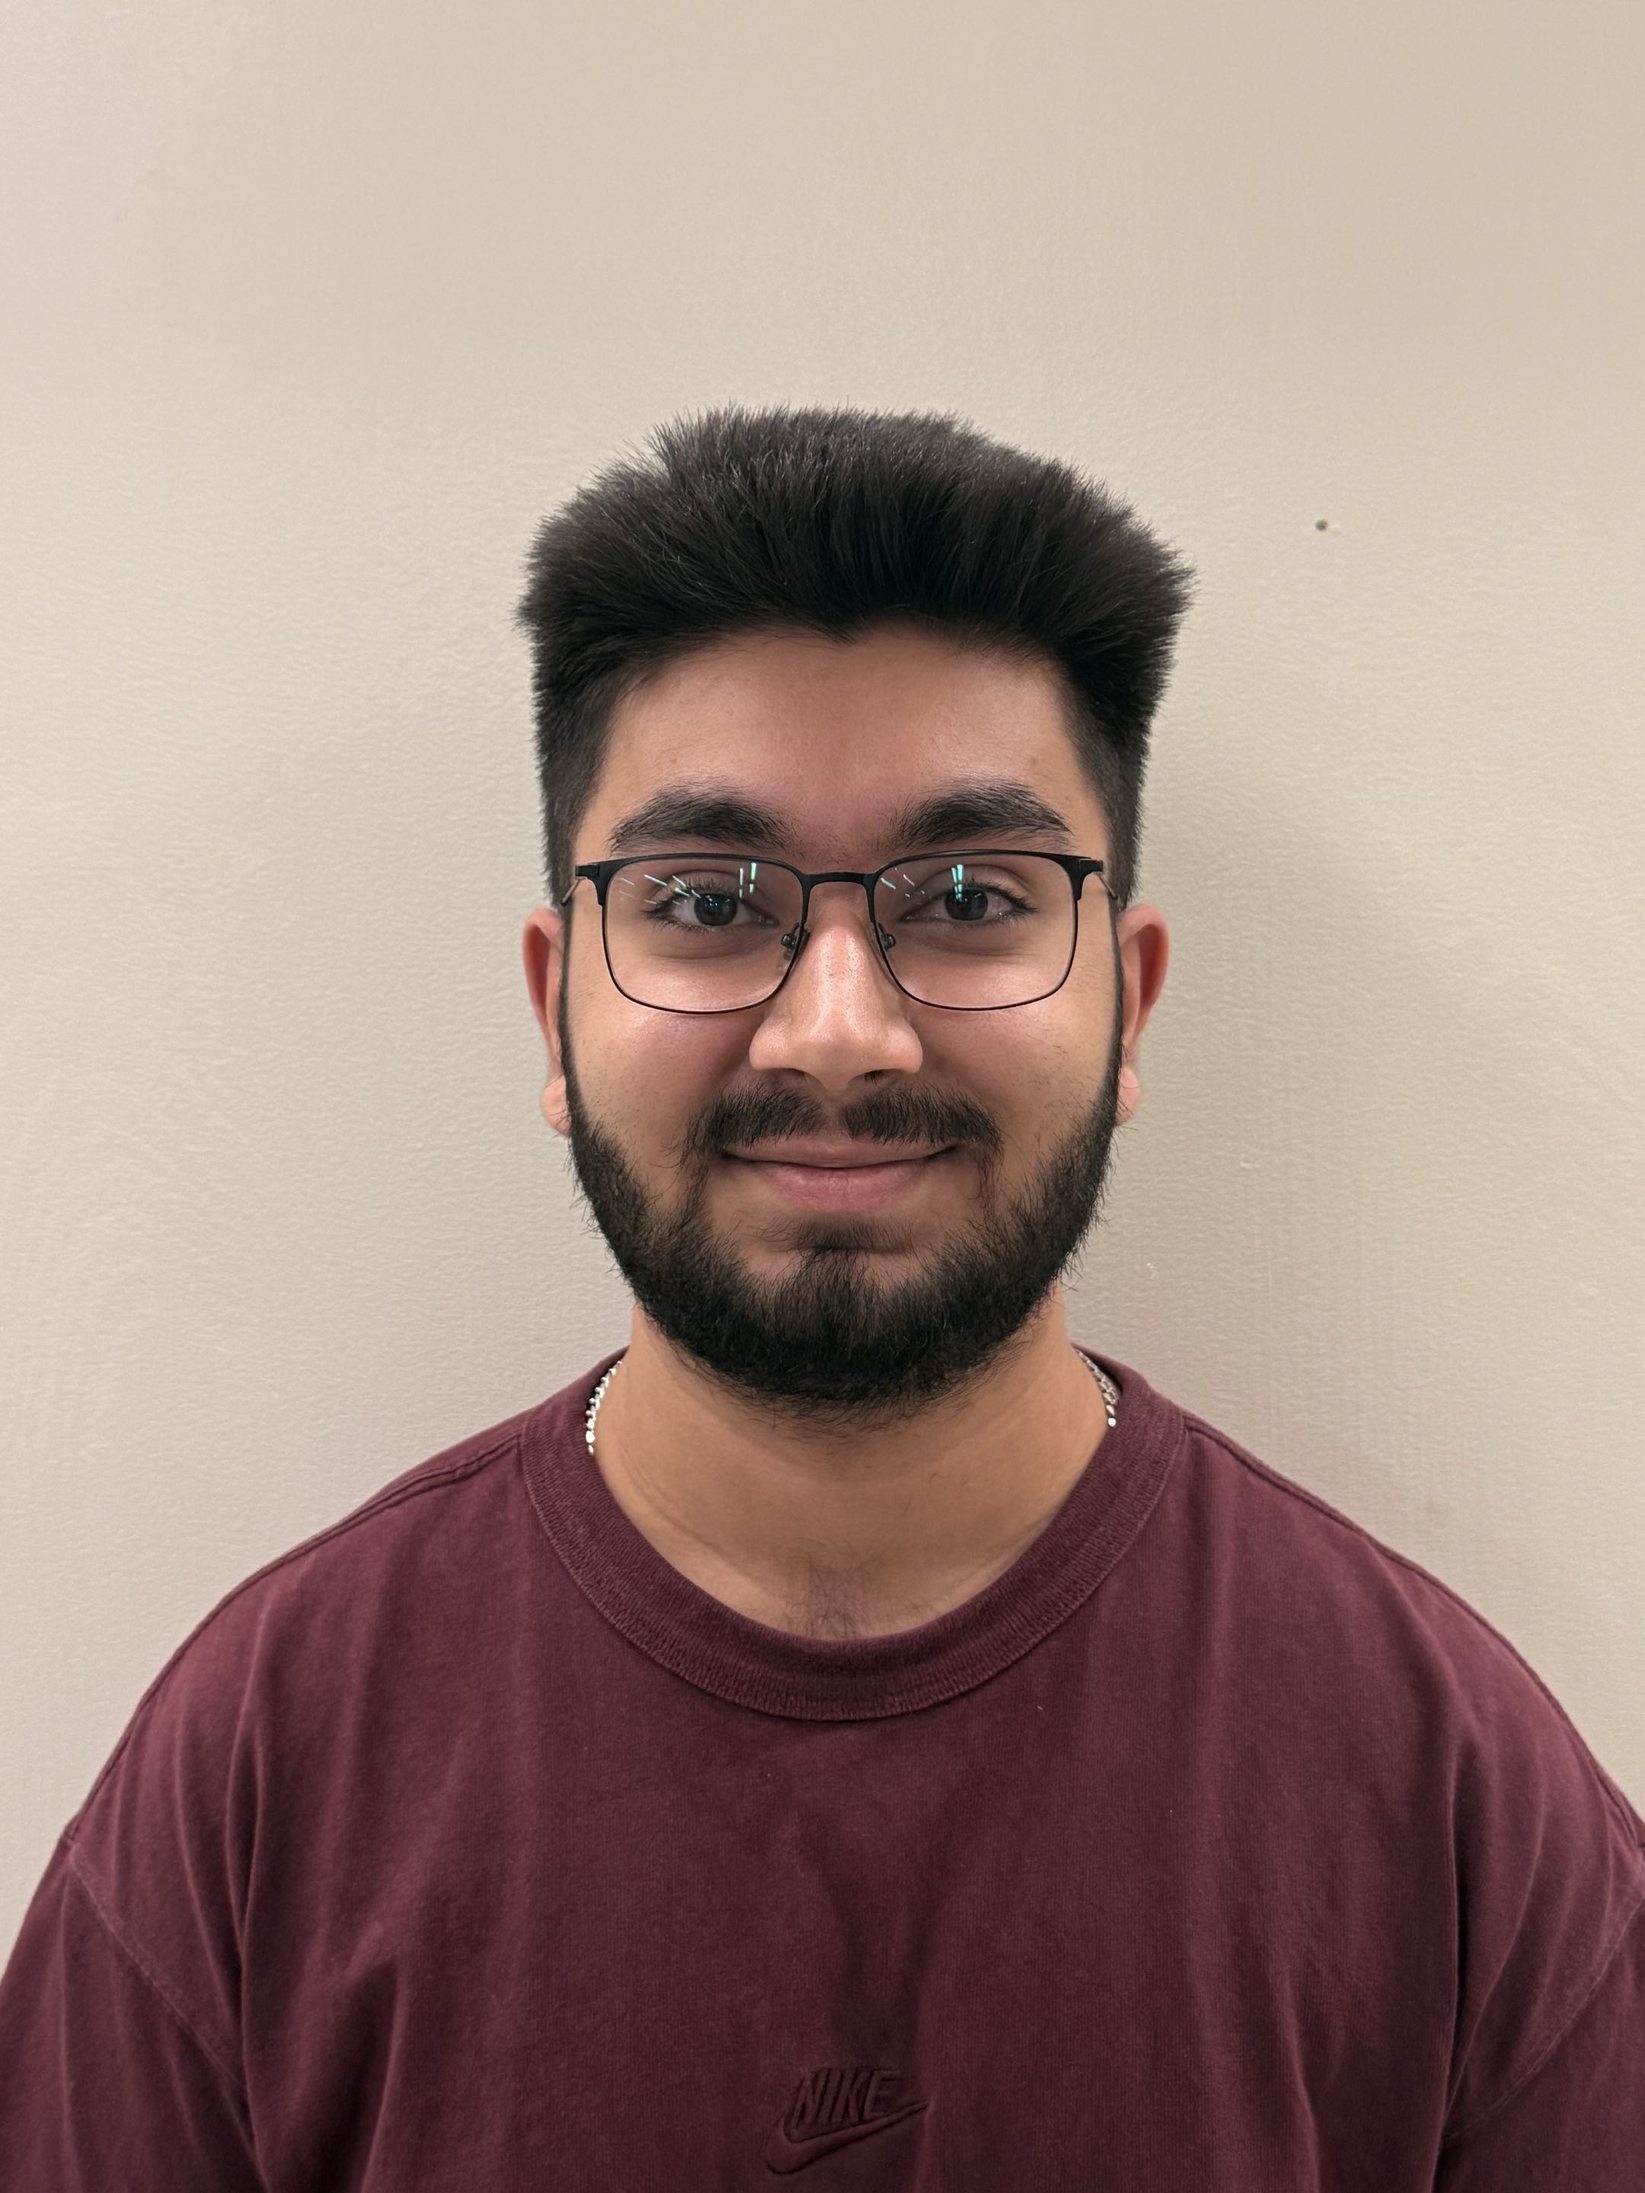
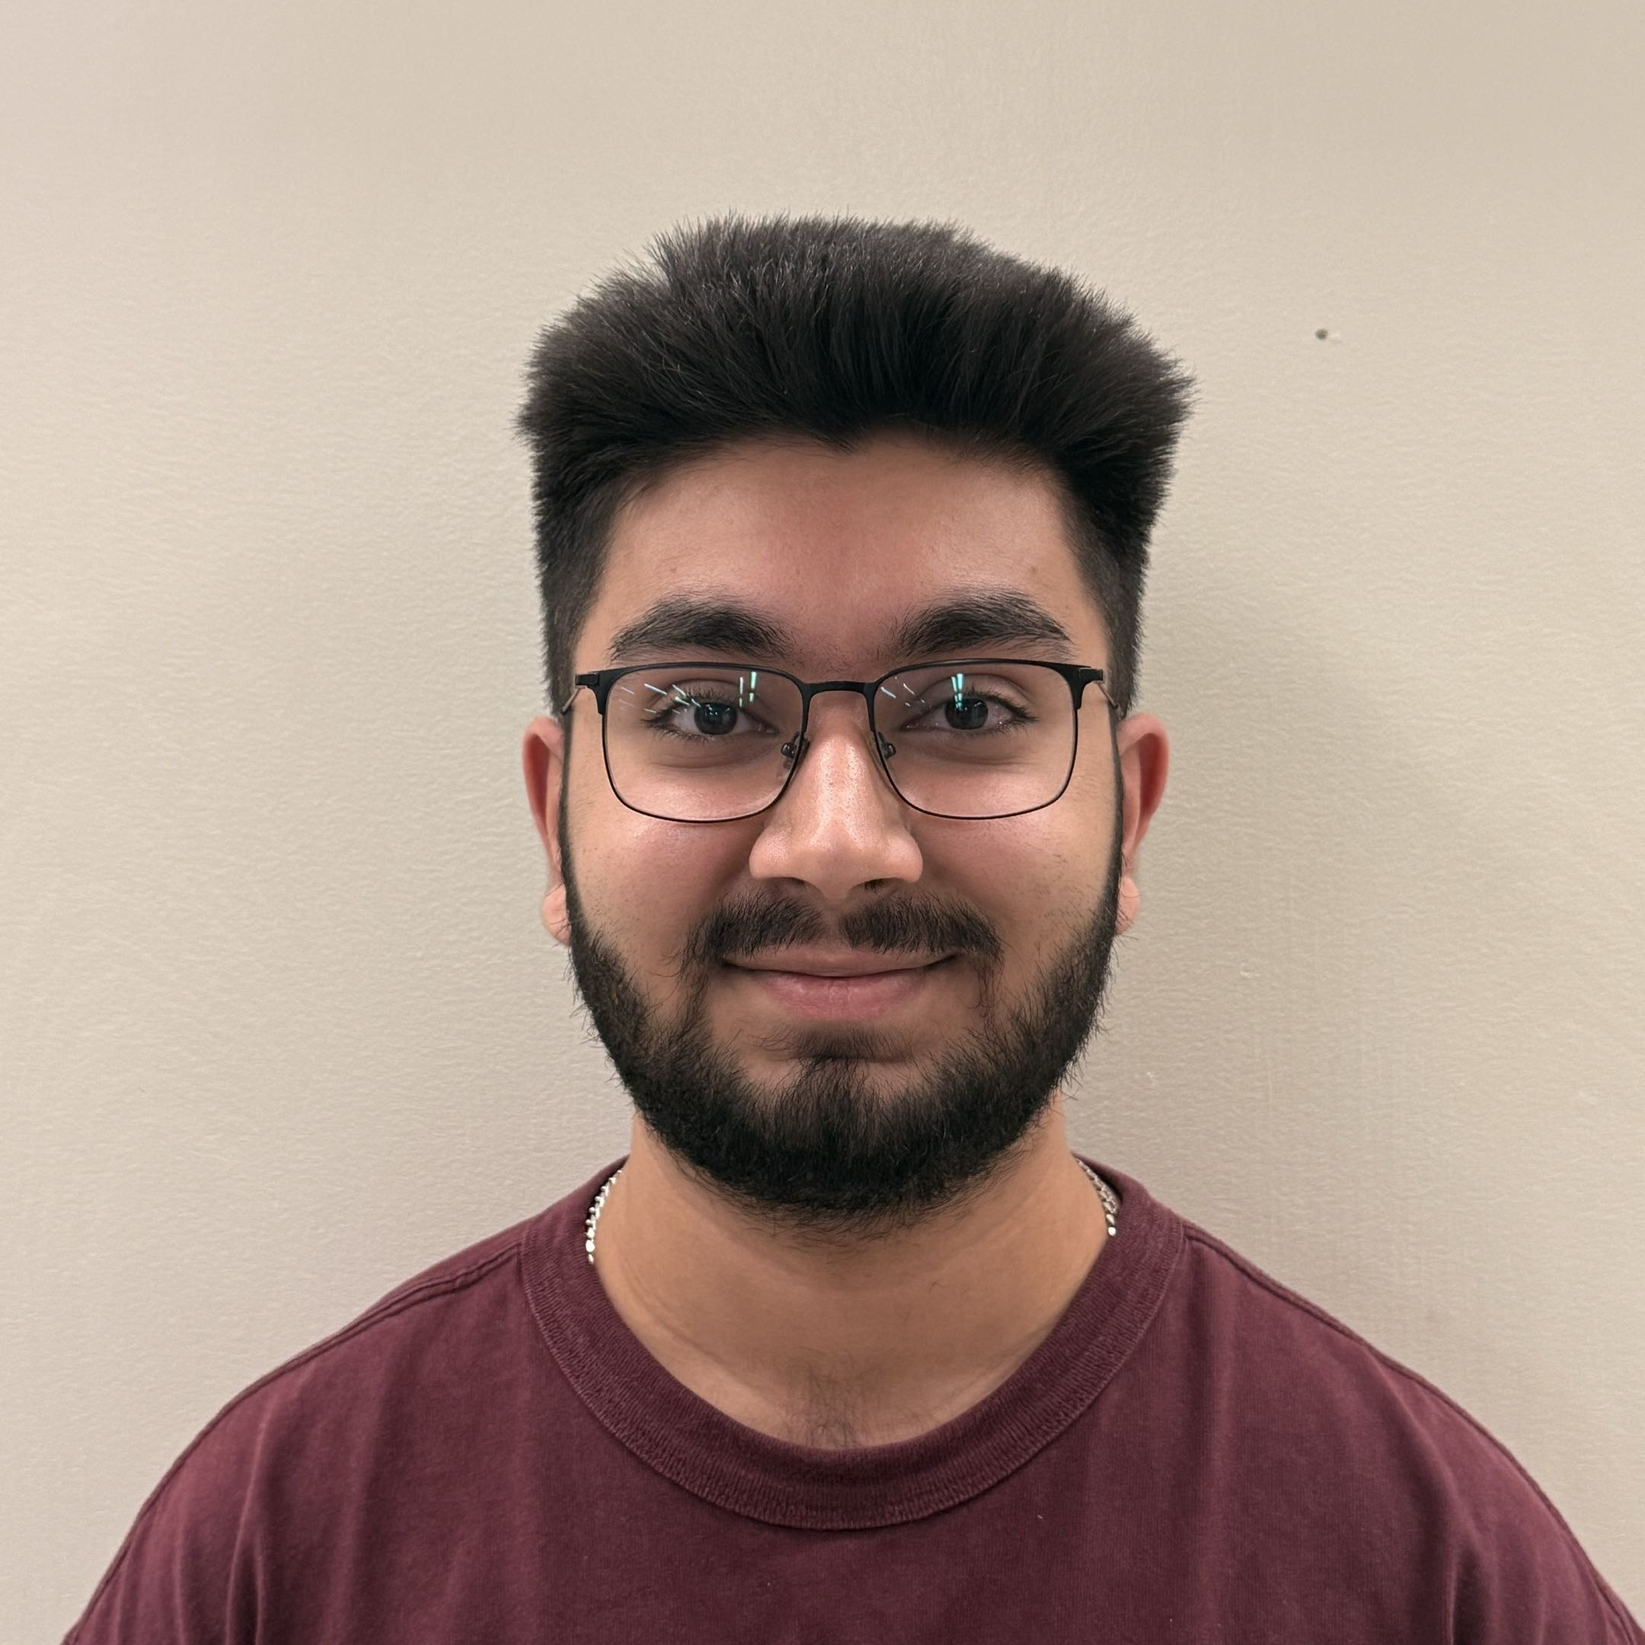
member updates + team member photos added

diff --git a/waybionic/src/app/team/components/hero.tsx b/waybionic/src/app/team/components/hero.tsx
@@ -73,14 +73,18 @@ const teams: Team[] = [
       { name: "Lina Dahou", role: "FOUNDER & PRESIDENT", image: "" },
     ],
     vps: [
-      { name: "Taylor Le",       role: "VP EXTERNAL &\n OPERATIONS",    image: "/images/team/taylor-le.jpg" },
-      { name: "Ariel Lee",       role: "VP INTERNAL &\n ACQUISITION",   image: "" },
-      { name: "Arwa Almousawi",  role: "VP BRAND &\nSOFTWARE",        image: "" },
-      { name: "Phillip Quimson", role: "VP MARKETING &\n FINANCE",     image: "/images/team/phillip-quimson.jpg" },
-      { name: "Yahya Elmadhoun", role: "VP MECHANICAL &\n BIOMEDICAL",  image: "/images/team/yahya-elmadhoun.jpg" },
+      { name: "Arwa Al Mousawi",  role: "VP MARKETING &\nSOFTWARE",        image: "" },
+      { name: "Ariel Lee",       role: "VP EXTERNAL &\n ACQUISITION",   image: "" },
+      { name: "Noor Ali",        role: "VP INTERNAL",   image: "/images/team/noor-ali.jpg" },
+      { name: "Abnoor Chattha",  role: "JR. VP INTERNAL",   image: "/images/team/abnoor-chattha.jpg" },
+      { name: "Yahya Elmadhoun", role: "VP FINANCE",  image: "/images/team/yahya-elmadhoun.jpg" },
+    ],
+    advisors: [
+      { name: "Sana Wahab", role: "ADVISOR", image: "" },
     ],
     members: [],
   },
+
   {
     id: "mechanical",
     name: "Mechanical Team",
@@ -90,23 +94,16 @@ const teams: Team[] = [
     leadCircleColor: "#FBB6C9",
     memberCircleColor: "#B9AFD2",
     leads: [
-      { name: "Abdul Tinwala",  role: "TEAM LEAD", image: "/images/team/abdul-tinwala.JPG" },
-      { name: "Zayd Charanek", role: "TEAM LEAD", image: "/images/team/zayd-charanek.JPG" },
-    ],
-    jrLeads: [
-      { name: "Noah Fischer", role: "JR. LEAD", image: "/images/team/noah-fischer.jpg" },
-      { name: "David Caranay",      role: "JR. LEAD", image: "/images/team/david-caranay.jpg" },
-
+      { name: "Noah Fischer", role: "TEAM LEAD", image: "/images/team/noah-fischer.jpg" },
+      { name: "David Caranay",      role: "TEAM LEAD", image: "/images/team/david-caranay.jpg" },
     ],
     members: [
       { name: "Hailey Tran",        image: "" },
-      { name: "Ahmad Sawalha",        image: "" },
-      { name: "Meagan Zimmel", image: "" },
-      { name: "Hady Fouda",        image: "" },
-      { name: "Humam Hameed",        image: "/images/team/humam-hameed.JPG" },
+      { name: "Jaspreet Dhanoa",        image: "" },
+      { name: "Safaa Asif",        image: "/images/team/safaa-asif.jpg" },
       { name: "Zara Daudi",        image: "" },
+      { name: "Meagan Zimmel", image: "" },
       { name: "Shahmeen Sarmad",        image: "/images/team/shahmeen-sarmad.png" },
-      { name: "Md Samiu",       image: "/images/team/md-samiu.jpg" },
     ],
   },
   {
@@ -118,27 +115,20 @@ const teams: Team[] = [
     leadCircleColor: "#FBD896",
     memberCircleColor: "#B9AFD2",
     leads: [
-      { name: "Yash Dhillon",    role: "TEAM LEAD", image: "/images/team/yash-dhillon.jpg" },
-      { name: "Samipya Rijal", role: "TEAM LEAD", image: "/images/team/samipya-rijal.jpg" },
+      { name: "Conrad Brabec", role: "TEAM LEAD", image: "/images/team/conrad-brabec.jpg" },
     ],
     jrLeads: [
-      { name: "Conrad Brabec", role: "JR. LEAD", image: "/images/team/conrad-brabec.jpg" },
-      { name: "Daljit Nijjar",      role: "JR. LEAD", image: "/images/team/daljit-nijjar.jpg" },
-
+      { name: "Haziq Munir", role: "JR. LEAD", image: "/images/team/haziq-munir.jpg" },
     ],
     members: [
-      { name: "Ahmad Kohistani",  image: "/images/team/ahmad-kohistani.jpg" },
-      { name: "Julia Tran",            image: "" },
-      { name: "Arjun Mannan",            image: "" },
-      { name: "Rashveer Sandhu",  image: "/images/team/rashveer-sandhu.jpg" },
+      { name: "Abdul Qureshi",            image: "" },
+      { name: "Aryan Al-Adani",            image: "/images/team/aryan-al-adani.jpg" },
+      { name: "Ava Jones",            image: "" },
+      { name: "Kristen Powell",            image: "" },
+      { name: "Daniel Mogylevets",            image: "" },
+      { name: "Luke Zenha",            image: "/images/team/luke-zenha.JPG" },
       { name: "Mahavir Desai",          image: "/images/team/mahavir-desai.jpg" },
       { name: "Utsav Ojha",          image: "/images/team/utsav-ojha.jpg" },
-      { name: "Haziq Munir",          image: "/images/team/haziq-munir.jpg" },
-      { name: "Khanh Mai Le",          image: "" },
-      { name: "Jad Wehbi",          image: "" },
-      { name: "Saad Subhani",          image: "" },
-      { name: "Gebrael Gebrael",          image: "" },
-      { name: "Arsalan Khan",          image: "/images/team/arsalan-khan.jpg" },
     ],
   },
   {
@@ -149,18 +139,17 @@ const teams: Team[] = [
     leadCircleColor: "#BEDBAC",
     memberCircleColor: "#B9AFD2",
     leads: [
-      { name: "Abdul Karim Qureshi",  role: "TEAM LEAD", image: "" },
       { name: "Ahmeel Pablo", role: "TEAM LEAD", image: "" },
     ],
     jrLeads: [
       { name: "Moumita Murshed", role: "JR. LEAD", image: "" },
-      { name: "Maaz Saleh",     role: "JR. LEAD", image: "" },
     ],
     members: [
       { name: "Bridget Benedek-Koteles",  image: "/images/team/bridget-benedek-koteles.JPEG" },
-      { name: "Abdul Waase Qureshi",      image: "" },
       { name: "Julie Guirguis",  image: "" },
-      { name: "Hannah Nguyen",           image: "" },
+      { name: "Hannah Nguyen",           image: "/images/team/hannah-nguyen.JPG" },
+      { name: "Anahat Sidhu",           image: "/images/team/anahat-sidhu.jpg" },
+      { name: "Amena Katawazi",           image: "/images/team/amena-katawazi.JPG" },
     ],
   },
   {
@@ -172,15 +161,19 @@ const teams: Team[] = [
     memberCircleColor: "#B9AFD2",
     leads: [
       { name: "Yassin Soliman", role: "TEAM LEAD", image: "" },
-      { name: "Mujtaba Zia",   role: "TEAM LEAD", image: "" },
+      { name: "Mujtaba Zia",   role: "TEAM LEAD", image: "/images/team/mujtaba-zia.jpeg" },
     ],
     jrLeads: [
       { name: "Gianna Kong", role: "JR. LEAD", image: "/images/team/gianna-kong.jpg" },
     ],
     members: [
-      { name: "Richard Nguyen",    image: "" },
+      { name: "Richard Nguyen",    image: "/images/team/richard-nguyen.png" },
       { name: "Harold Kim",        image: "/images/team/harold-kim.jpg" },
-      { name: "Khuzaymah Haris",             image: "/images/team/khuzaymah-haris.png" }
+      { name: "Khuzaymah Haris",             image: "/images/team/khuzaymah-haris.png" },
+      { name: "Ajmal Khidri",      image: "" },
+      { name: "Abdullah Sheikh",      image: "/images/team/abdullah-sheikh.jpeg" },
+      { name: "Al Malik Mahdivikar",      image: "" },
+
     ],
   },
   {
@@ -191,12 +184,13 @@ const teams: Team[] = [
     leadCircleColor: "#6E6C78",
     memberCircleColor: "#B9AFD2",
     leads: [
-      { name: "Taylor Le", role: "TEAM LEAD", image: "/images/team/taylor-le.jpg" },
+      { name: "Lina Dahou", role: "TEAM LEAD", image: "" },
+      { name: "Arwa Al Mousawi", role: "TEAM LEAD", image: "" },
     ],
     members: [
       { name: "Jade Cosmilla",         image: "" },
       { name: "Noor Ali", image: "/images/team/noor-ali.jpg" },
-      { name: "Abnoor Chattha", image: "" },
+      { name: "Abnoor Chattha", image: "/images/team/abnoor-chattha.jpg" },
       { name: "Cris Wen", image: "/images/team/cris-wen.jpg" },
     ],
   },
@@ -231,8 +225,9 @@ const teamStats = statTeams.map((s) => ({
   targetId: s.targetId,
 }));
 
-// total members = everyone across the five teams above
-const totalMembers = teamStats.reduce((sum, s) => sum + Number(s.count), 0);
+// total members = unique people across the five teams above (some people,
+// e.g. exec VPs who also lead Finance & Marketing, are on more than one team)
+const totalMembers = countUniquePeople();
 
 const stats = [
   ...teamStats,
@@ -249,6 +244,32 @@ function getInitials(name: string): string {
     .slice(0, 2)
     .toUpperCase();
 }
+
+
+// some people are listed on more than one team, count each person once for the org-wide total
+function countUniquePeople(): number {
+  const names = new Set<string>();
+  teams.forEach((t) => getAllPeople(t).forEach((p) => names.add(normalizeName(p.name))));
+  return names.size;
+}
+
+
+// collapse a name to letters-only/lowercase 
+function normalizeName(name: string): string {
+  return name.toLowerCase().replace(/[^a-z]/g, "");
+}
+
+function getAllPeople(team: Team): Person[] {
+  return [
+    ...(team.president ?? []),
+    ...(team.vps ?? []),
+    ...(team.leads ?? []),
+    ...(team.jrLeads ?? []),
+    ...(team.advisors ?? []),
+    ...team.members,
+  ];
+}
+
 
 // ─── COMPONENTS ──────────────────────────────────────────────────────────────
 
@@ -558,8 +579,8 @@ export default function Hero() {
             </h1>
 
             <p
-              className="text-sm leading-relaxed font-semibold"
-              style={{ color: "#DAD4E3", fontFamily: "var(--font-dm-sans), sans-serif", maxWidth: 340 }}
+              className="text-m leading-relaxed font-semibold"
+              style={{ color: "#DAD4E3", fontFamily: "var(--font-dm-sans), sans-serif", maxWidth: 400 }}
             >
               Since 2024, WayBionic has been driven by passionate innovators
               pushing boundaries in tech and medicine. We&apos;re always looking
